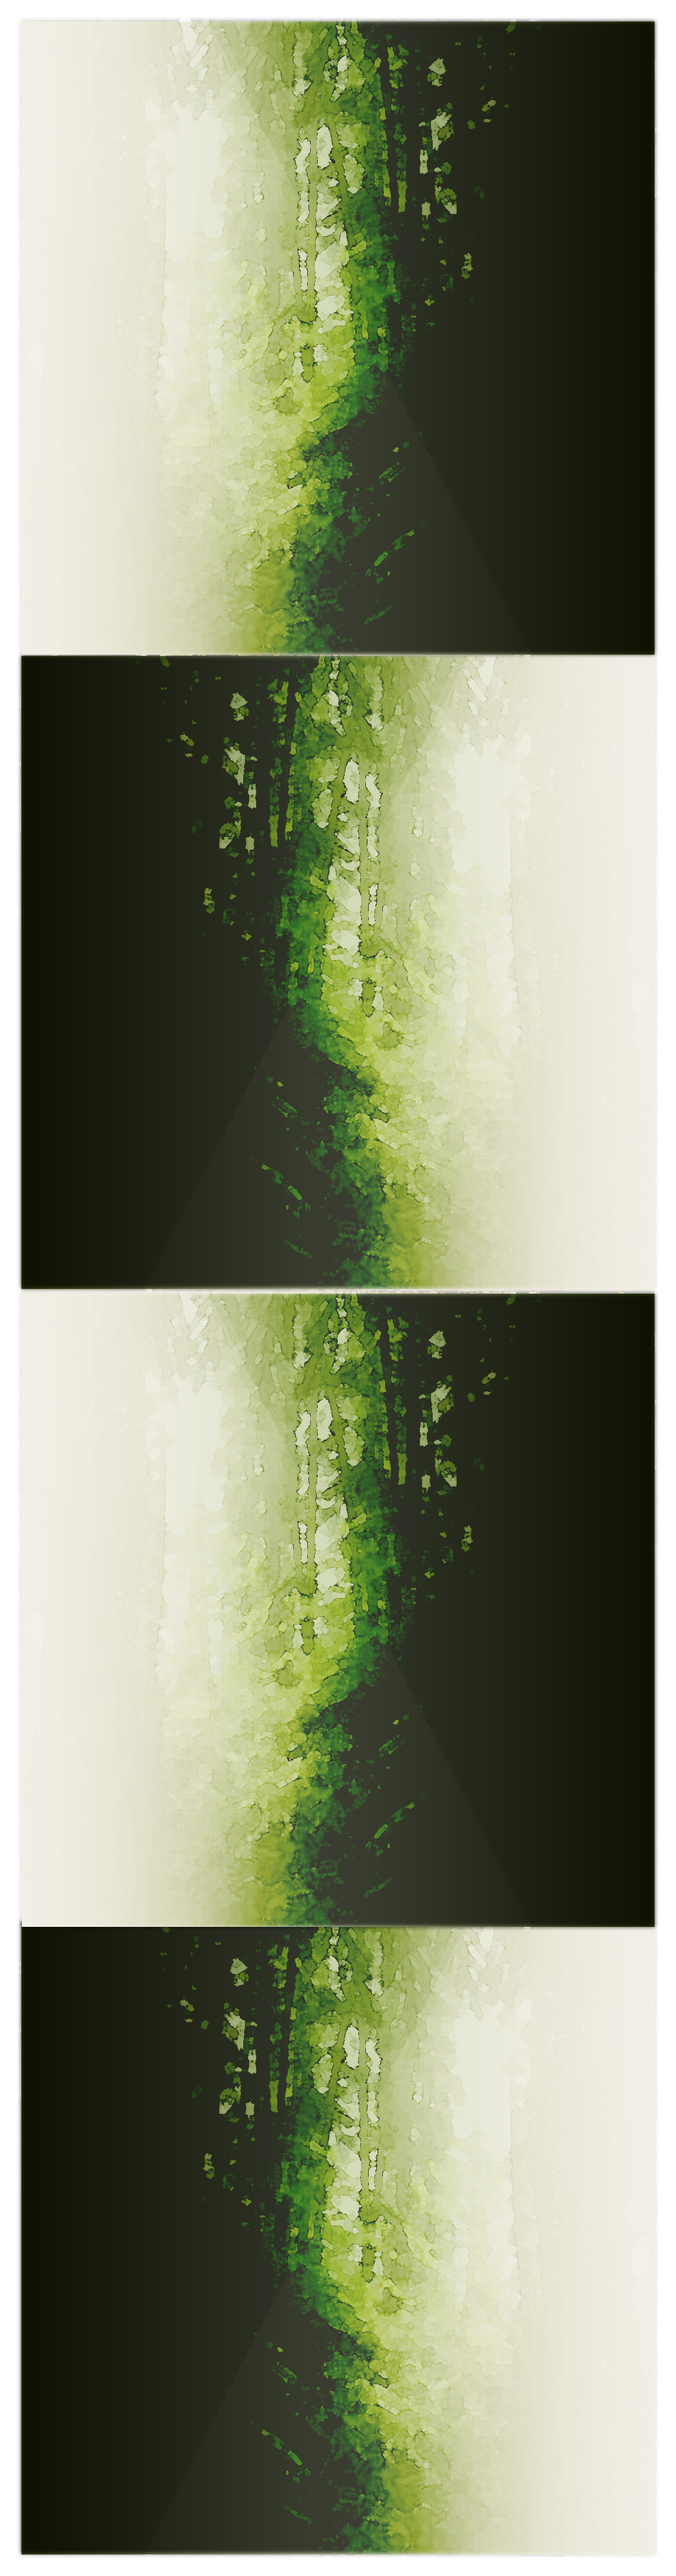
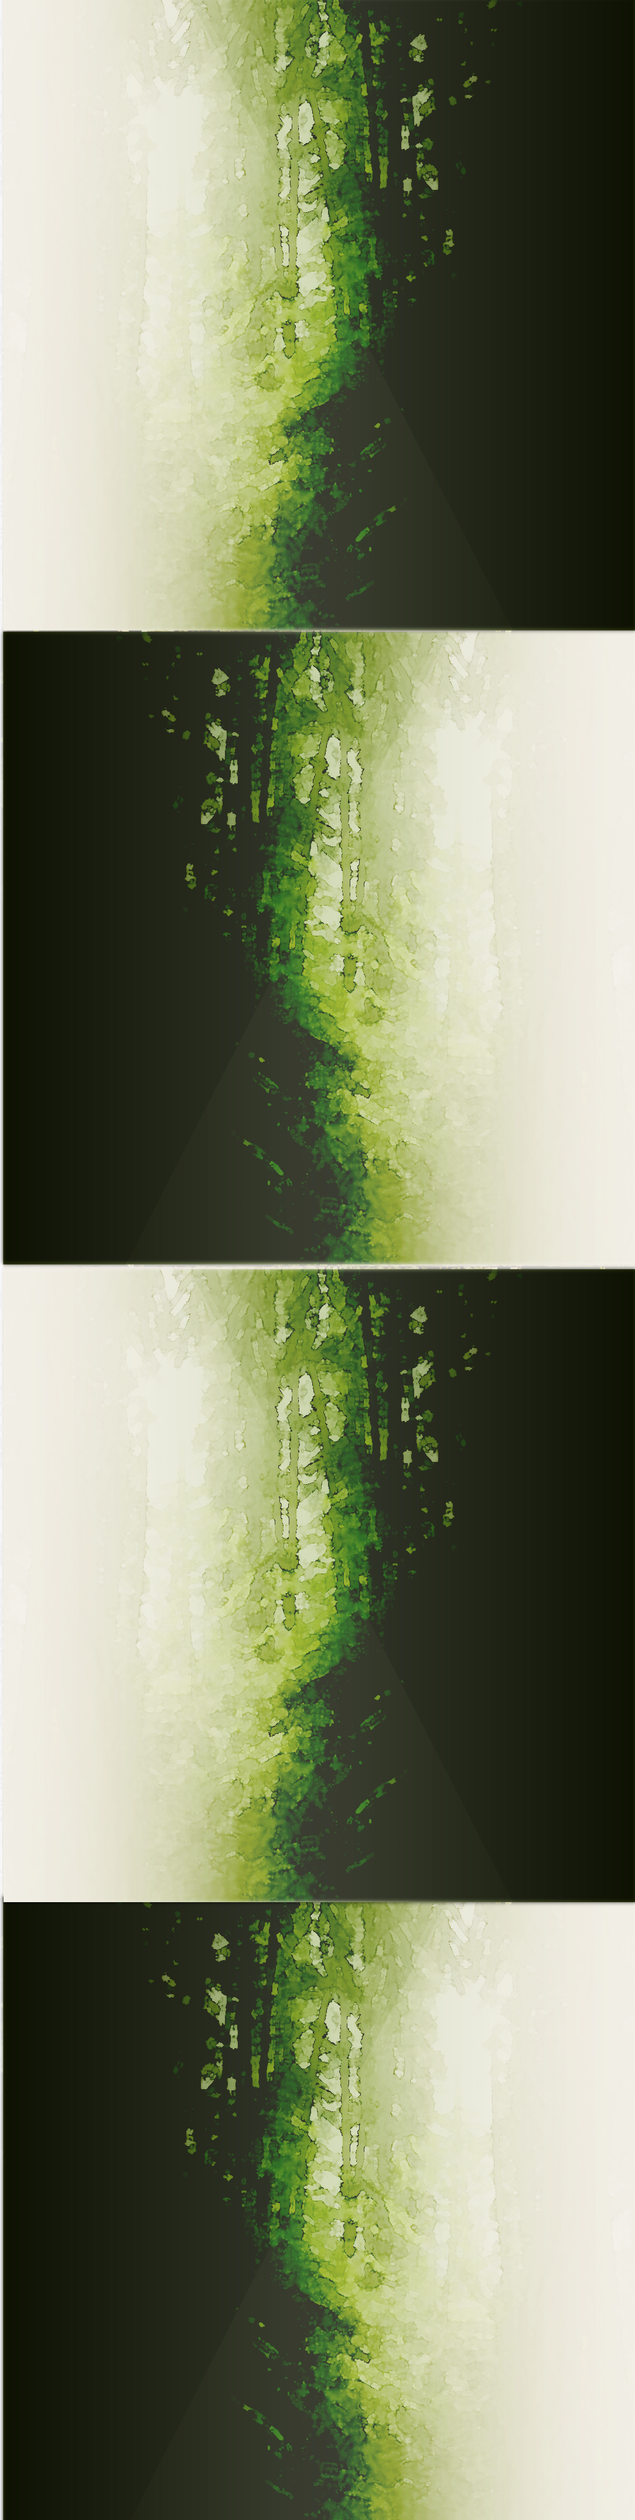
Add background to about page

Changed region(s): [[0.0, 0.0, 1.0, 1.0], [0.6697, 0.3117, 0.7002, 0.3429]]

diff --git a/style.css b/style.css
@@ -353,11 +353,12 @@ nav {
 
 /* About */
 
-body .about-page {
+.about-page {
   background-image: url("assets/About_BG.png");
   background-size: 100% auto;
   background-position: center top;
   background-repeat: no-repeat;
+  min-height: 100vh;
 }
 
 /* ============================================================

diff --git a/index.html b/index.html
@@ -6,7 +6,7 @@
     <title>Wildwynd Publishing</title>
     <link rel="stylesheet" href="style.css" />
   </head>
-  <body class="about-page">
+  <body>
     <!-- ══════════ NAVBAR ══════════ -->
     <nav>
       <div class="nav-inner">
